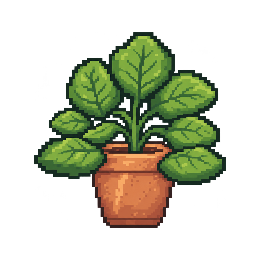
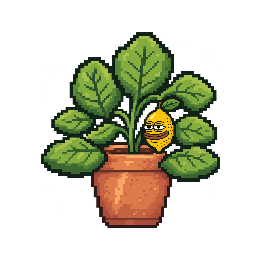
Add Pepe lemon tree and novelty table lamp to the room

Changed region(s): [[0.125, 0.125, 0.9062, 0.9062], [0.4375, 0.7188, 0.4688, 0.8125]]

diff --git a/docs/games/pepegochi.css b/docs/games/pepegochi.css
@@ -96,6 +96,8 @@ html.embed body { padding-inline: 0; }
 /* A11: architectural detail, not an owned/earned decoration. */
 .pgr-house-sign { position:absolute; z-index:2; left:4.375%; top:12%; width:12.5%; padding:1.25% .5%; background:#253e38; border:2px solid #a28a51; box-shadow:2px 2px #172a27; color:#d3c597; text-align:center; white-space:pre-line; font:700 clamp(4px,1.25cqw,8px)/1.5 monospace; letter-spacing:.04em; pointer-events:none; }
 .pgr-item:not(.pgr-wall) { filter:drop-shadow(2px 3px 0 #14282066); }
+.pgr-fixed-lamp { z-index:49; transform:translate(-50%,-100%); filter:drop-shadow(2px 3px 0 #14282066); }
+.pgr-room-lights-off .pgr-fixed-lamp { filter:brightness(.6) drop-shadow(2px 3px 0 #14282066); }
 .pgr-wall { filter:drop-shadow(2px 2px 0 #14282066); }
 
 /* Room A13: keyboard/touch-friendly hit areas are separate from the labelled artwork. */

diff --git a/games/pepegochi/hd-review/room-preview.html b/games/pepegochi/hd-review/room-preview.html
@@ -35,6 +35,8 @@ function draw(){
   const placements=full?fixedPlacements(Object.keys(ITEMS)):STARTER_ROOM;
   const original=renderRoom(document,{stage,placements});
   const revised=renderRoom(document,{stage,placements});
+  original.querySelector('.pgr-fixed-lamp')?.remove();
+  revised.querySelector('.pgr-fixed-lamp').src=resolve('room/pepe_table_lamp.png');
   original.querySelectorAll('img').forEach(img=>{img.src=img.getAttribute('src').replace('/hd/','/');});
   revised.querySelector('.pgr-bg').src=resolve('room/room_pond_den_v1.png');
   revised.querySelectorAll('[data-item]').forEach(item=>{

diff --git a/games/pepegochi/hd-review/README.md b/games/pepegochi/hd-review/README.md
@@ -59,3 +59,9 @@ All eight remaining items have individually generated, finer pixel-art replaceme
 - Logical geometry is unchanged. Sprite and prop hitboxes use the 30% alpha bounds divided by two; bubbles clear the actual sprite top. The HD art profile verifies RGBA, resolution, floor, bounds, colour cap and alpha-fringe limits without loosening any original 128px or taskbar rules.
 - The local test page uses the same renderer, click controller, care and hatch animations as the live page, but only the isolated local rules model. No production calls or rewards. Both pages preload the current stage's animation frames rather than the entire pack.
 - Local validation: all PepeGochi tests pass (130 pass, 7 environment-dependent skips), static site checks and the 91-frame validator pass. The full site suite had two unrelated Haze test-file failures caused by missing local `@noble/curves` (CI installs the locked dependency). New Chromium assertions check actual HD dimensions, four stages, all four rest frames, offline simulator clicks and existing interaction behavior. Full run and real-account test still pending.
+
+## Lemon tree and Pepe novelty table lamp
+
+- Owner reference: yellow Pepe-faced lemon hanging among existing plant leaves; the green glass Pepe vessel is reimagined as an electric novelty lamp with a cream fringed fabric shade that covers its top. Image generation used the existing plant and room sprites as pixel-art style references. No other art or the Golden Foot painting changed.
+- `room/potted_plant.png` and `room/pepe_table_lamp.png` are 256×256 transparent PNGs, copied to the active `docs/games/img/pepegochi/hd/` folder. The plant retains its slot, bottom anchor and water interaction; the updated alpha bounds track actual foliage. The lamp is a fixed architectural prop on the left dresser, not a new owned item or reward. It dims with room lights. No server or inventory change.
+- Run `node games/pepegochi/hd-review/render-room-preview.mjs` from the repository root to recreate the full-room static composition in `room/preview.png`. The side-by-side HTML preview also includes the new assets in the refined room only. All files are available directly in the shared draft PR for Claude.
